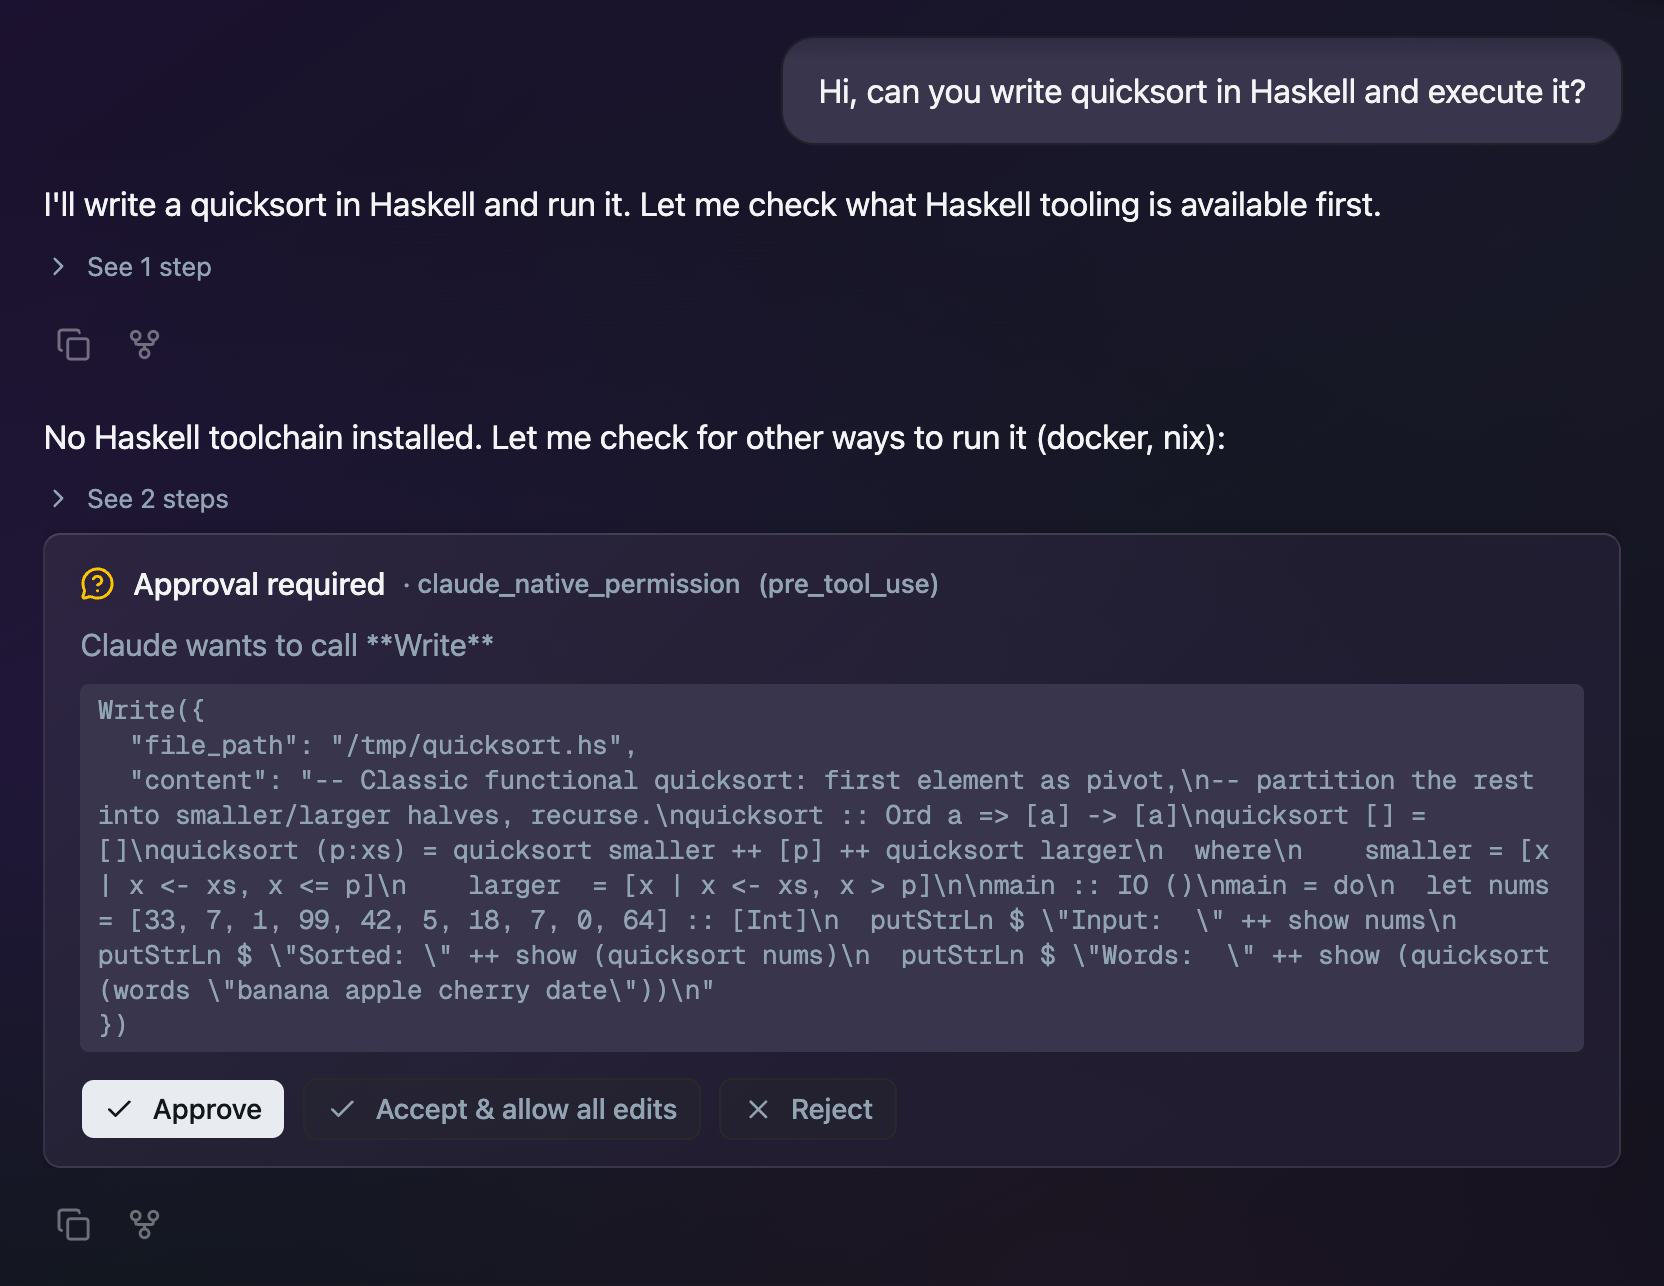
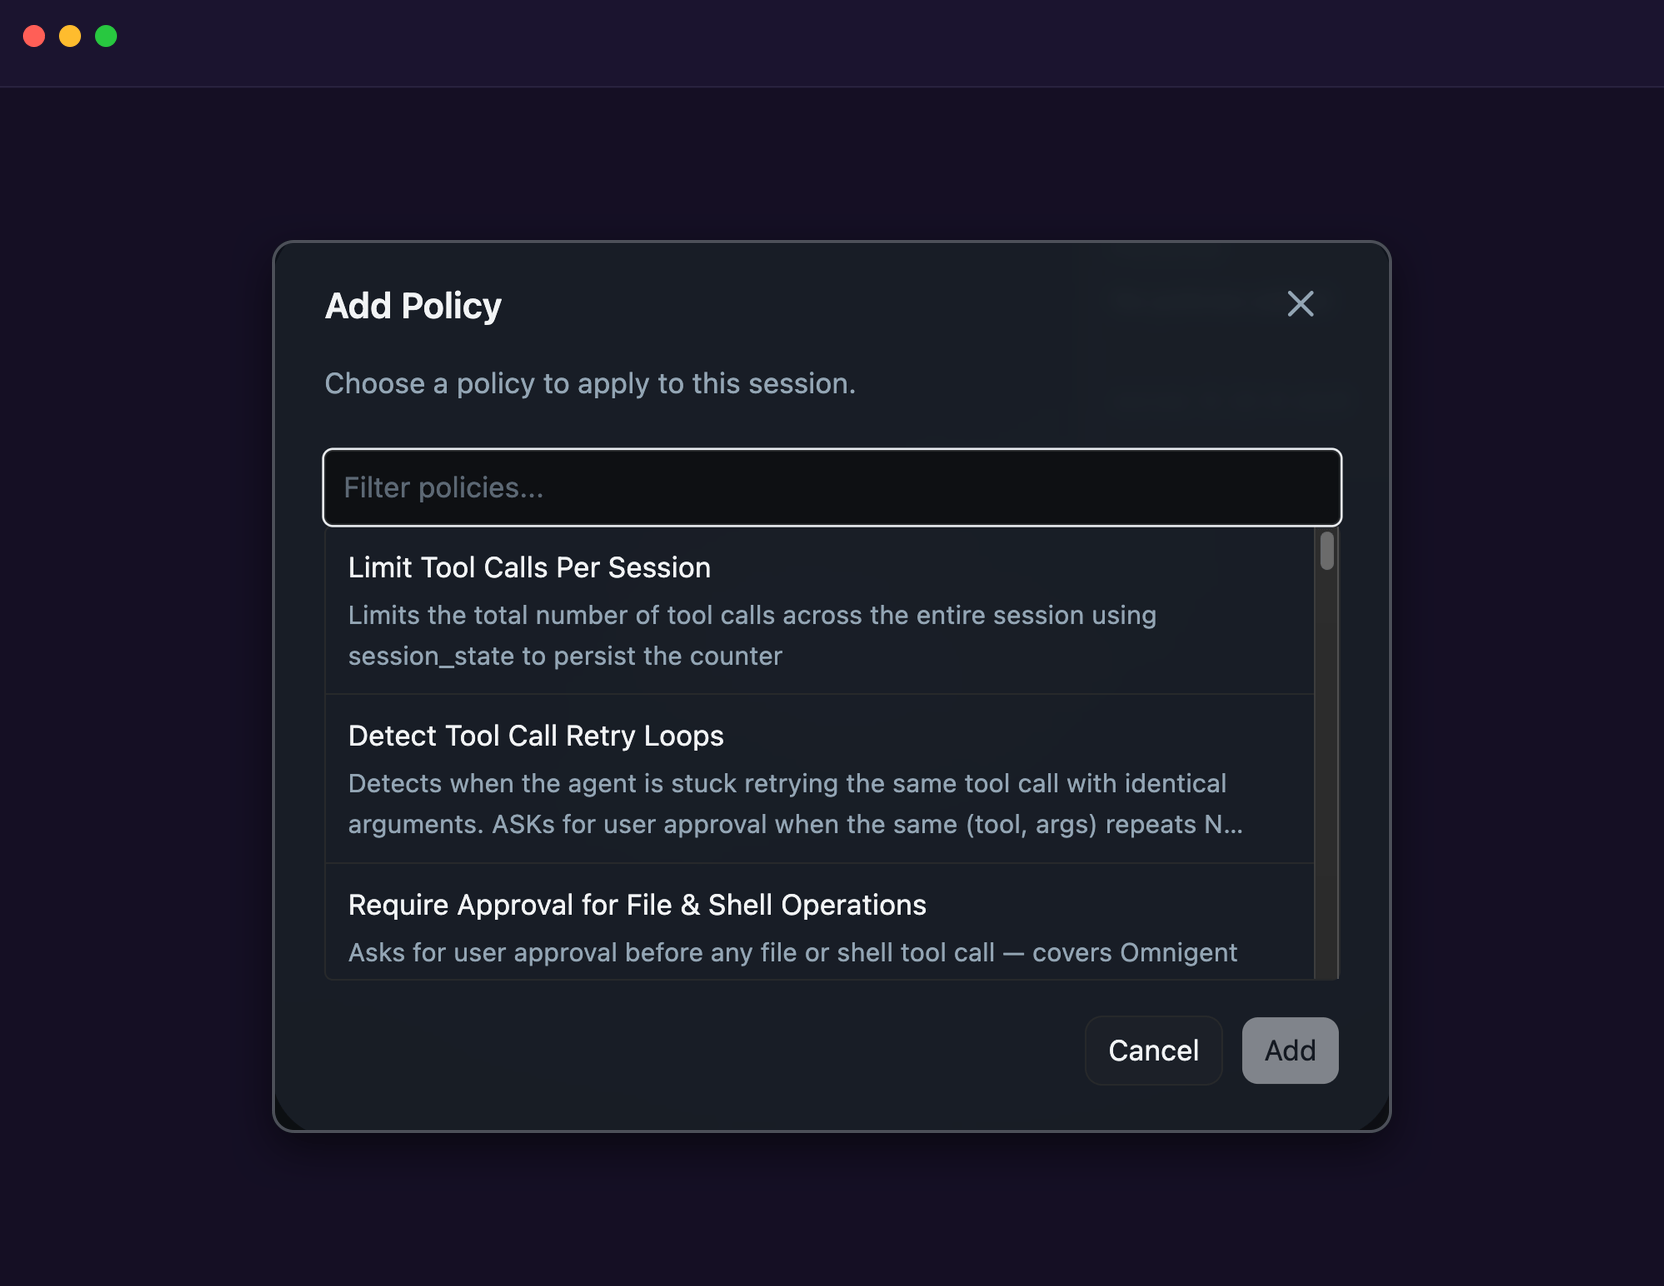
chore(pillars): swap Control visual to the Add Policy screenshot (#739)
Replace the quicksort approval screenshot with the Add Policy dialog for the Control pillar. Both light and dark present the modal inside a macOS window (traffic lights, no title text) that fills the full 1664x1286 frame edge-to-edge (opaque, same footprint as the original image), with the dialog centered over the app surface. Dark uses a native dark-theme capture. Updates the alt text in PillarsTabs.js.

diff --git a/components/PillarsTabs.js b/components/PillarsTabs.js
@@ -44,7 +44,7 @@ const PILLARS = [
     visual: {
       src: "/images/control.png",
       darkSrc: "/images/control-dark.png",
-      alt: "Omnigent approval prompt for a Bash tool call blocked by a session cost budget policy.",
+      alt: "Omnigent's Add Policy dialog for applying a governance policy to an agent session, listing options like limiting tool calls per session, detecting tool-call retry loops, and requiring approval for file and shell operations.",
       width: 1664,
       height: 1286,
       fit: "contain",
